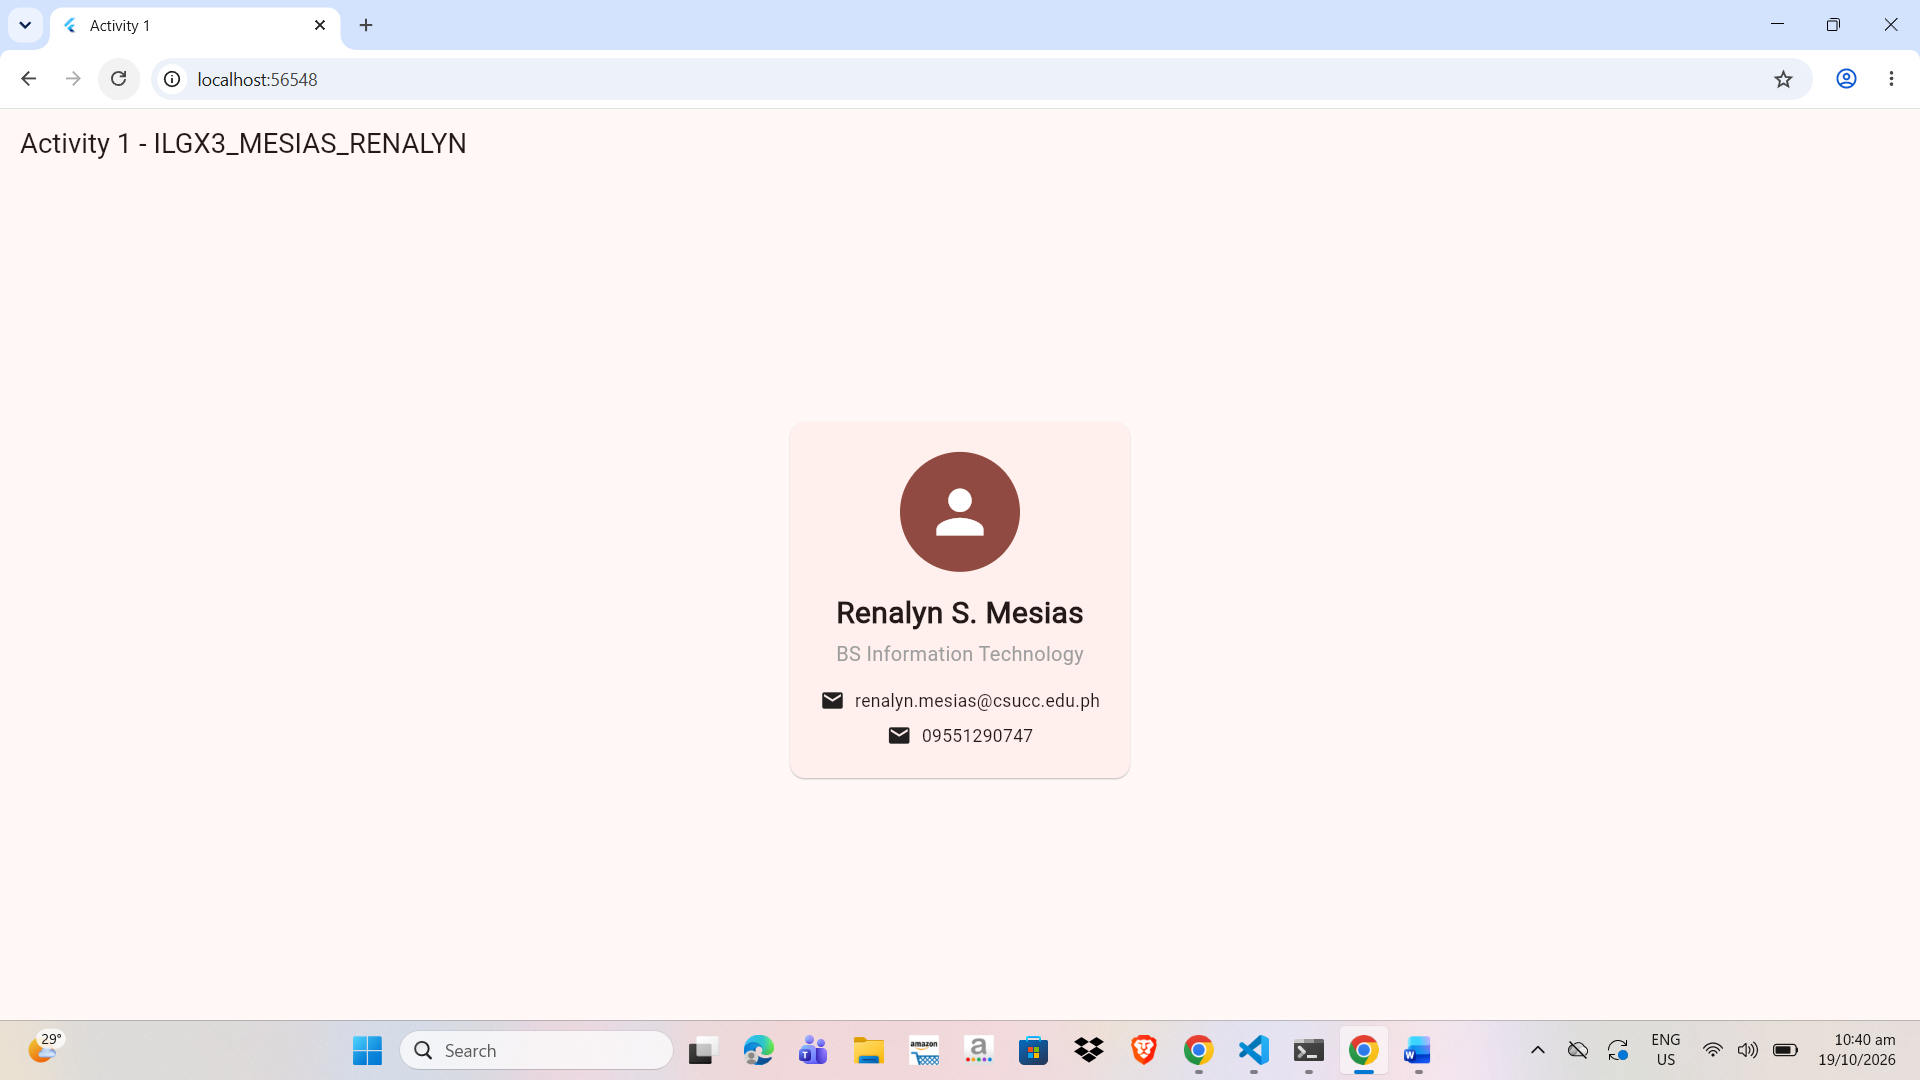
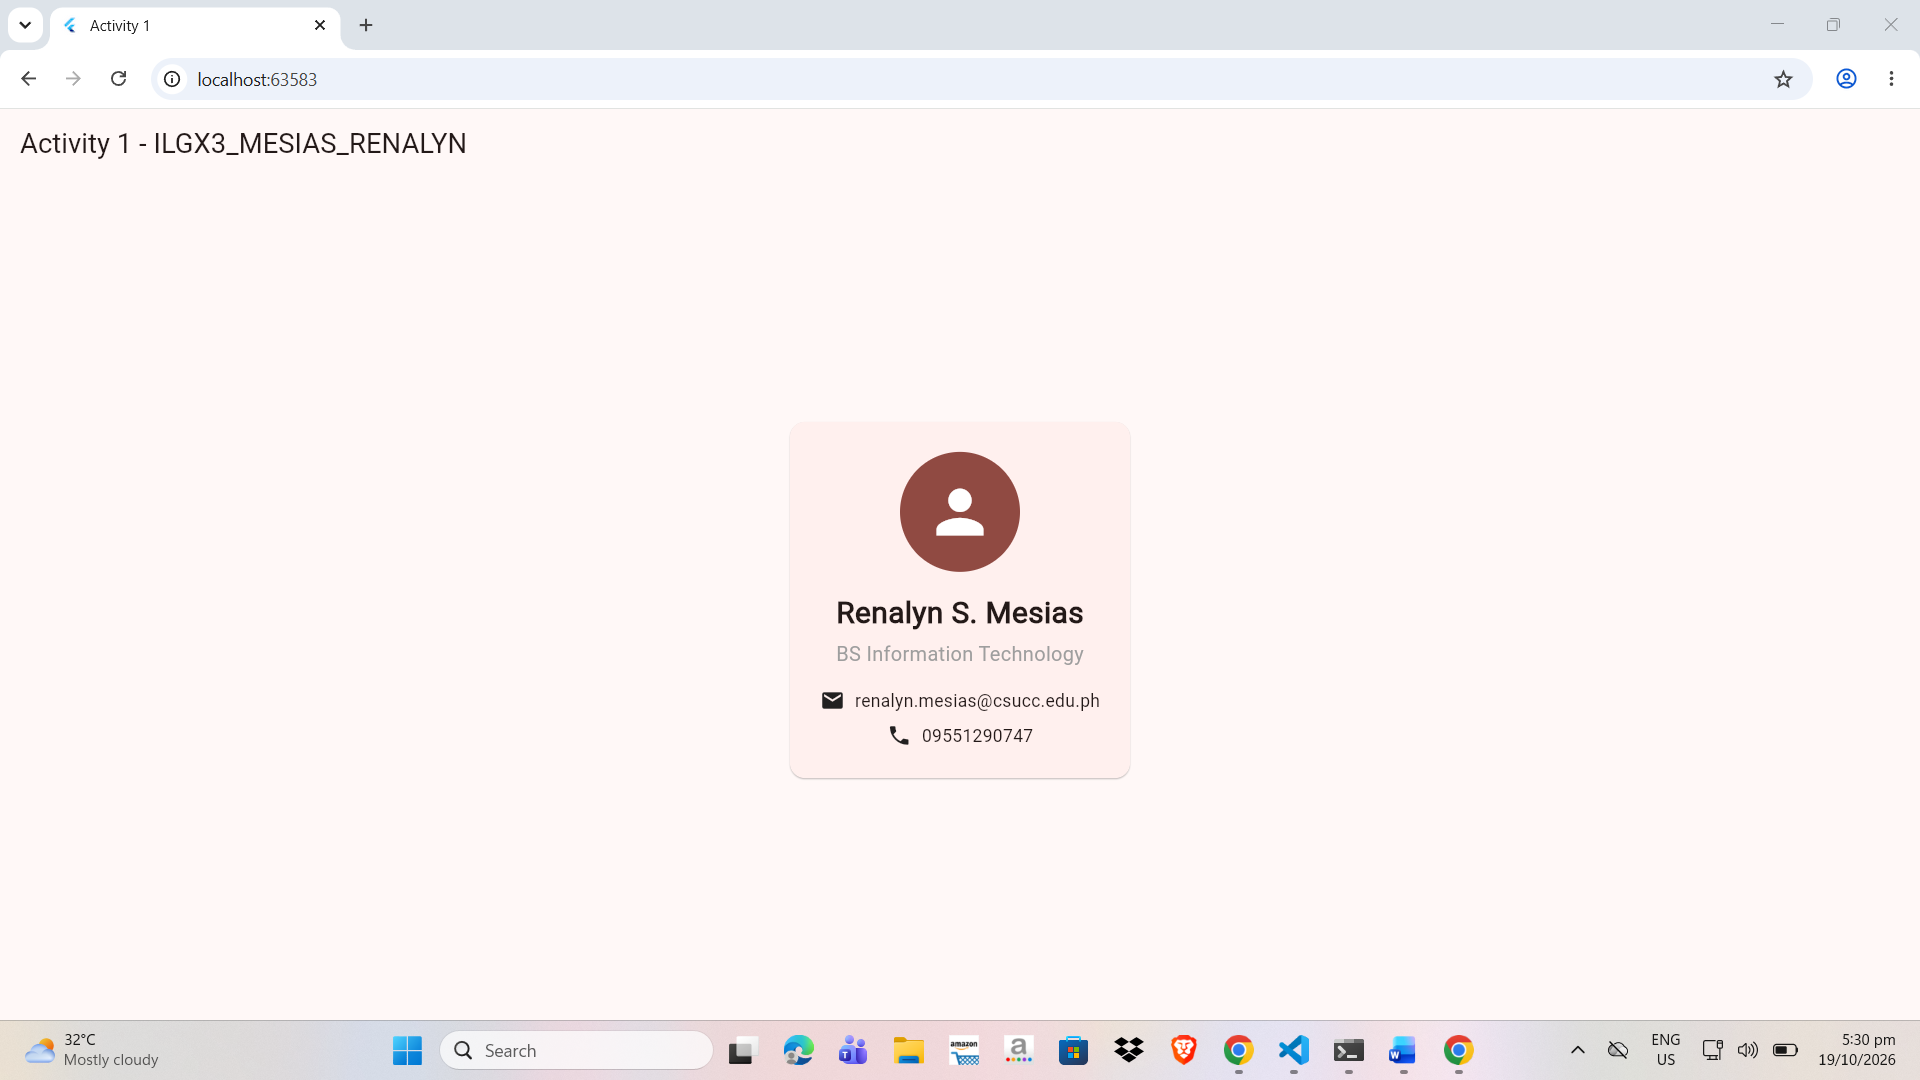
Final lab submission

diff --git a/lib/main.dart b/lib/main.dart
@@ -1,5 +1,5 @@
 // To run a different activity, change the file name in the import below,
 // save, then press F5 (or click "Run" above main() in any activity file).
 
-import 'activity4_cafe_menu.dart' as activity4;
+import 'activity1_profile_card.dart' as activity4;
 void main() => activity4.main();

diff --git a/lib/activity1_profile_card.dart b/lib/activity1_profile_card.dart
@@ -62,7 +62,7 @@ const SizedBox(height: 8),
 const Row(
   mainAxisSize: MainAxisSize.min,
   children: [
-    Icon(Icons.email, size: 20),
+    Icon(Icons.phone, size: 20),
     SizedBox(width: 8),
     Text('09551290747'),
   ],

diff --git a/ANSWERS.md b/ANSWERS.md
@@ -3,59 +3,64 @@
 ## 1. GitHub Repository Link
 https://github.com/renalynmesias30-lgtm/flutter_basics_lab
 
----
 
 ## 2. Activity 2: Debug Console Logs
 build() called: 4 glasses
 build() called: 5 glasses
 build() called: 6 glasses
 
----
 
 ## 3. Experiment Observations
 
 ### Activity 2 Experiment
-* **Action:** Moved `_glasses++` outside of `setState()` in `_addGlass()`.
-* **Observation:** The `_glasses` variable value increments internally in the background, but the UI on screen does not update when clicking the button. The screen only updates when a rebuild is triggered later. Calling `setState()` is required to notify Flutter to re-render the UI with new state values.
+
+I moved `_glasses++` outside `setState()` and tapped the **+** button. The screen did not change. It stayed at "0 / 6 glasses" and the progress bar did not fill. No new `build() called` line showed in the Debug Console. The number changed inside the memory, but the screen did not update. This is because `setState()` tells Flutter to run `build()` again. Without it, the screen is not redrawn. I put the code back to the original after the test.
 
 ### Activity 3 Experiment
-* **Action:** Removed `Expanded` from one `StatBox` widget.
-* **Observation:** The `StatBox` without `Expanded` shrunk down to fit only its immediate contents' minimum width. Meanwhile, the remaining `Expanded` boxes expanded dynamically to share the leftover horizontal space equally.
+
+When I removed `Expanded` from one StatBox, that box became small. It only took the size of what is inside it (the icon and the text). It was not the same width as the other three boxes. The other boxes used all the extra space. `Expanded` makes a widget fill the extra space in a Row, and many Expanded widgets share the space equally. I put `Expanded` back after the test.
 
 ### Activity 5 Experiment
-* **Action:** Changed `borderRadius` in `buildTheme()` from `8` to `20` for `ElevatedButton`.
-* **Observation:** The outer corners of all `ElevatedButton` components became significantly more rounded/curved across the app, demonstrating centralized theme styling.
 
----
+I changed the button corner radius in `elevatedButtonTheme` from **8 to 20**. The corners of the **Elevated** button became rounder, almost like a pill shape. The **Outlined** and **Filled** buttons did not change because `elevatedButtonTheme` is only for ElevatedButton.
 
 ## 4. Review Questions Answers
 
-1. **What is the difference between a StatelessWidget and a StatefulWidget? Give one example of each from this lab.**
-   * A `StatelessWidget` is immutable and cannot change its appearance or state after being drawn (e.g., `ProfileApp` / `ProfileCard` in Activity 1). A `StatefulWidget` holds mutable state and can update dynamically on the screen using `setState()` (e.g., `WaterTrackerPage` in Activity 2).
+**1. What is the difference between a StatelessWidget and a StatefulWidget? Give one example of each.**
+A **StatelessWidget** does not change after it is drawn. Example: `ProfileCard` in Activity 1. A **StatefulWidget** has data that can change while the app is running. Example: `WaterTrackerPage` in Activity 2.
 
-2. **Why is a StatefulWidget written as two classes? What does each class do?**
-   * It is split into two classes because widgets in Flutter are immutable and discarded frequently. The first class extends `StatefulWidget` and creates the state object, while the second class extends `State` to preserve the mutable data across widget rebuilds and execute the `build()` method.
 
-3. **In Activity 2, what happened when you changed `_glasses` outside `setState()`? Why?**
-   * The variable's value updated internally, but the counter text on screen did not change. This happens because Flutter needs `setState()` to be called to mark the widget as dirty and trigger a rebuild of the `build()` method.
+**2. Why is a StatefulWidget written as two classes? What does each class do?**
+The **widget class** (`WaterTrackerPage`) only creates the State object. The **State class** (`_WaterTrackerPageState`) keeps the data that changes (`_glasses`) and has the `build()` method. They are separate because the widget can be made again, but the State keeps the data.
 
-4. **Looking at the Debug Console in Activity 2, when is `build()` called?**
-   * `build()` is called when the widget is first rendered on screen and every time `setState()` is executed after tapping a button (`+`, `-`, or `Reset`).
 
-5. **Explain the main axis and the cross axis of a Row and of a Column.**
-   * For a `Row`, the main axis is horizontal (left-to-right) and the cross axis is vertical (top-to-bottom). For a `Column`, the main axis is vertical (top-to-bottom) and the cross axis is horizontal (left-to-right).
+**3. In Activity 2, what happened when you changed `_glasses` outside `setState()`? Why?**
+The number changed in memory, but the screen did not change. This is because `setState()` tells Flutter to run `build()` again. Without it, the screen is not redrawn.
 
-6. **In Activity 3, what happened when you removed `Expanded` from a `StatBox`? What does `Expanded` do?**
-   * Removing `Expanded` made the box shrink to fit its text/icon size only. `Expanded` forces a child widget inside a `Row` or `Column` to expand and take up remaining available space along the main axis.
 
-7. **Why do we use `GridView.builder` for the menu instead of a `Column` with many children?**
-   * `GridView.builder` creates items lazily (only when visible on screen), making it performance-efficient for potentially long lists. In contrast, a `Column` builds all children at once and does not scroll automatically, causing overflow errors.
+**4. Looking at the Debug Console in Activity 2, when is `build()` called?**
+`build()` is called when the screen is first shown. It is also called every time `setState()` is called, like when I tap +, - or Reset.
 
-8. **How do `Stack` and `Positioned` create the Best seller badge in Activity 4?**
-   * `Stack` overlays widgets on top of each other in layers. `Positioned` is used inside a `Stack` to pin the "Best seller" badge at precise relative offsets (e.g., top: 8, left: 8) over the card background.
 
-9. **What is the difference between customizing with `ThemeData` and with a style on one widget? Give one example of each from Activity 5.**
-   * `ThemeData` applies styles globally across all matching widgets in the app (e.g., setting global button rounded corners via `elevatedButtonTheme` in `buildTheme()`). A widget-level style applies locally to a single element only (e.g., setting local padding directly on a specific `Card` or `Padding` widget).
+**5. Explain the main axis and the cross axis of a Row and of a Column.**
+In a **Row**, the main axis goes left to right (horizontal) and the cross axis goes up and down (vertical). In a **Column**, the main axis goes up and down (vertical) and the cross axis goes left to right (horizontal).
 
-10. **When you flip the dark-mode switch in Activity 5, which widget holds the state, and how does the change reach `MaterialApp`?**
-    * The root widget `ThemeDemoApp` (`_ThemeDemoAppState`) holds the `_isDark` boolean state. When flipped in `SettingsPage`, a callback function (`onDarkChanged`) is executed, which runs `setState()` in `_ThemeDemoAppState` and updates the `themeMode` property passed into `MaterialApp`.
+
+**6. In Activity 3, what happened when you removed Expanded from a StatBox? What does Expanded do?**
+The box became small and was not the same width as the others. It only took the size of what is inside it. `Expanded` makes a widget fill the extra space in a Row or Column. If there are many Expanded widgets, they share the space equally.
+
+
+**7. Why do we use GridView.builder for the menu instead of a Column with many children?**
+`GridView.builder` only builds the cards that you can see on the screen, so it is fast even with many items. It can also scroll by itself. A Column builds all the items at once and does not scroll by itself.
+
+
+**8. How do Stack and Positioned create the Best seller badge in Activity 4?**
+A **Stack** puts widgets on top of each other. **Positioned** puts the badge in one exact place (`top: 8, left: 8`). The badge only shows when `item.bestSeller` is true.
+
+
+**9. What is the difference between customizing with ThemeData and with a style on one widget? Give one example of each from Activity 5.**
+**ThemeData** changes the look of the whole app. Example: `elevatedButtonTheme` in `buildTheme()`, which changes all ElevatedButtons. A **style on one widget** changes only that one widget. Example: `TextStyle(fontSize: 24)` on one `Text`.
+
+
+**10. When you flip the dark-mode switch in Activity 5, which widget holds the state, and how does the change reach MaterialApp?**
+`_ThemeDemoAppState` holds the state (`_isDark`). When I flip the switch, it calls `onDarkChanged` (`_setDark`), which calls `setState()`. Then `ThemeDemoApp` builds again, and `MaterialApp` picks the dark or light theme using `themeMode`. This is called lifting state up.
